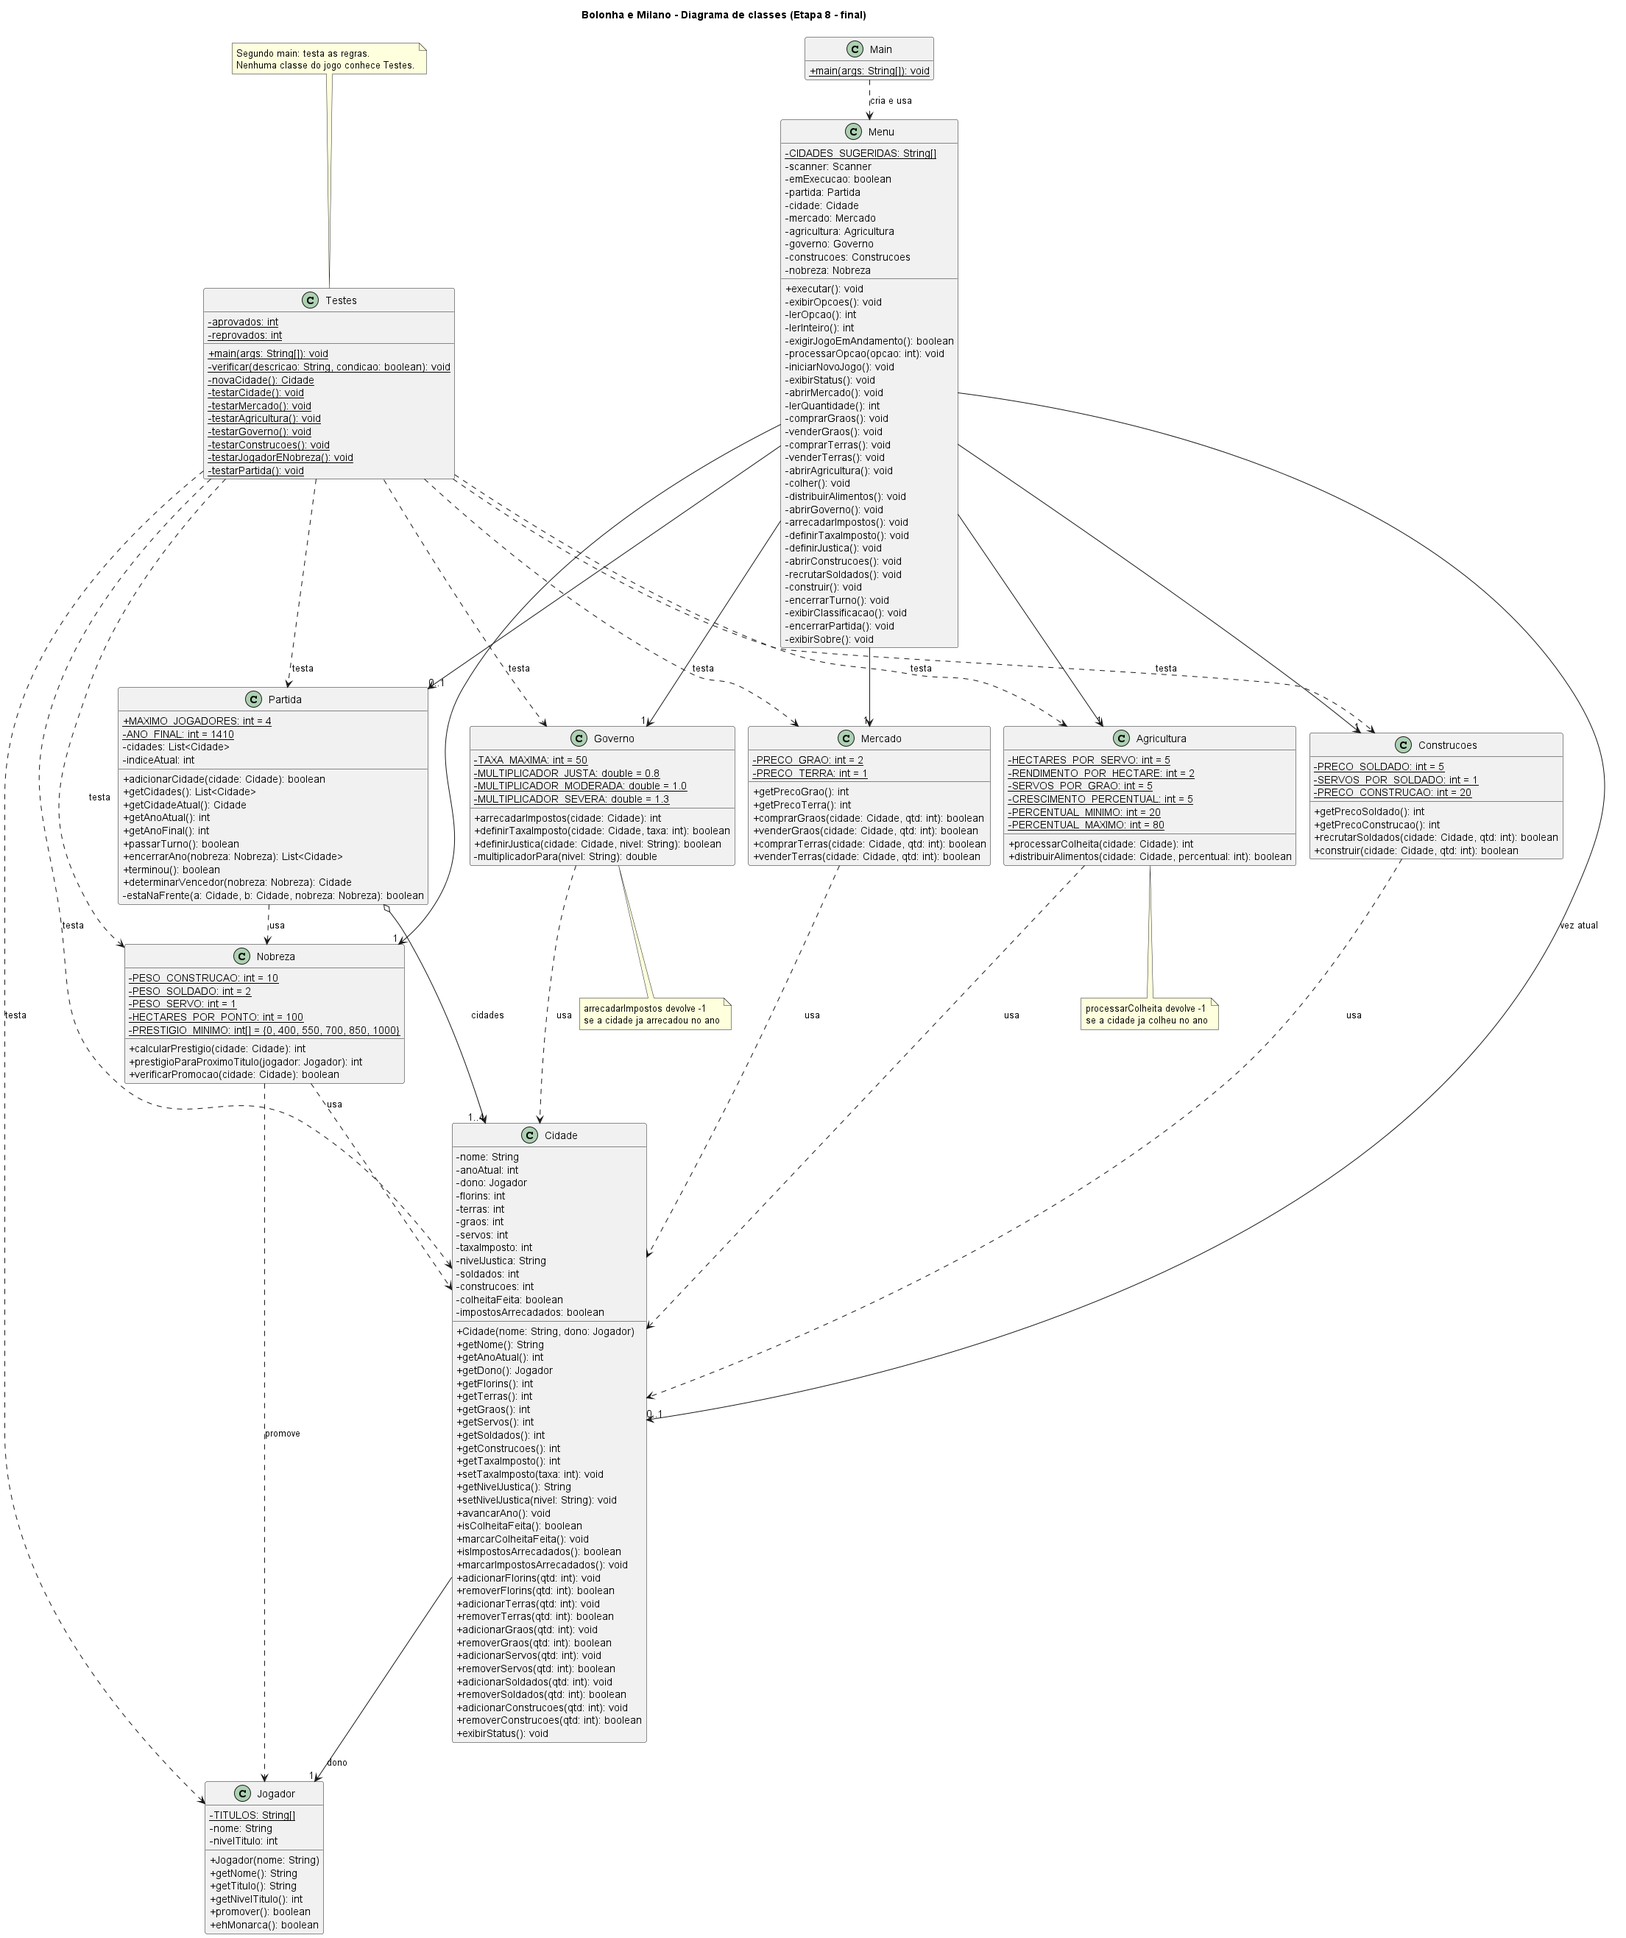
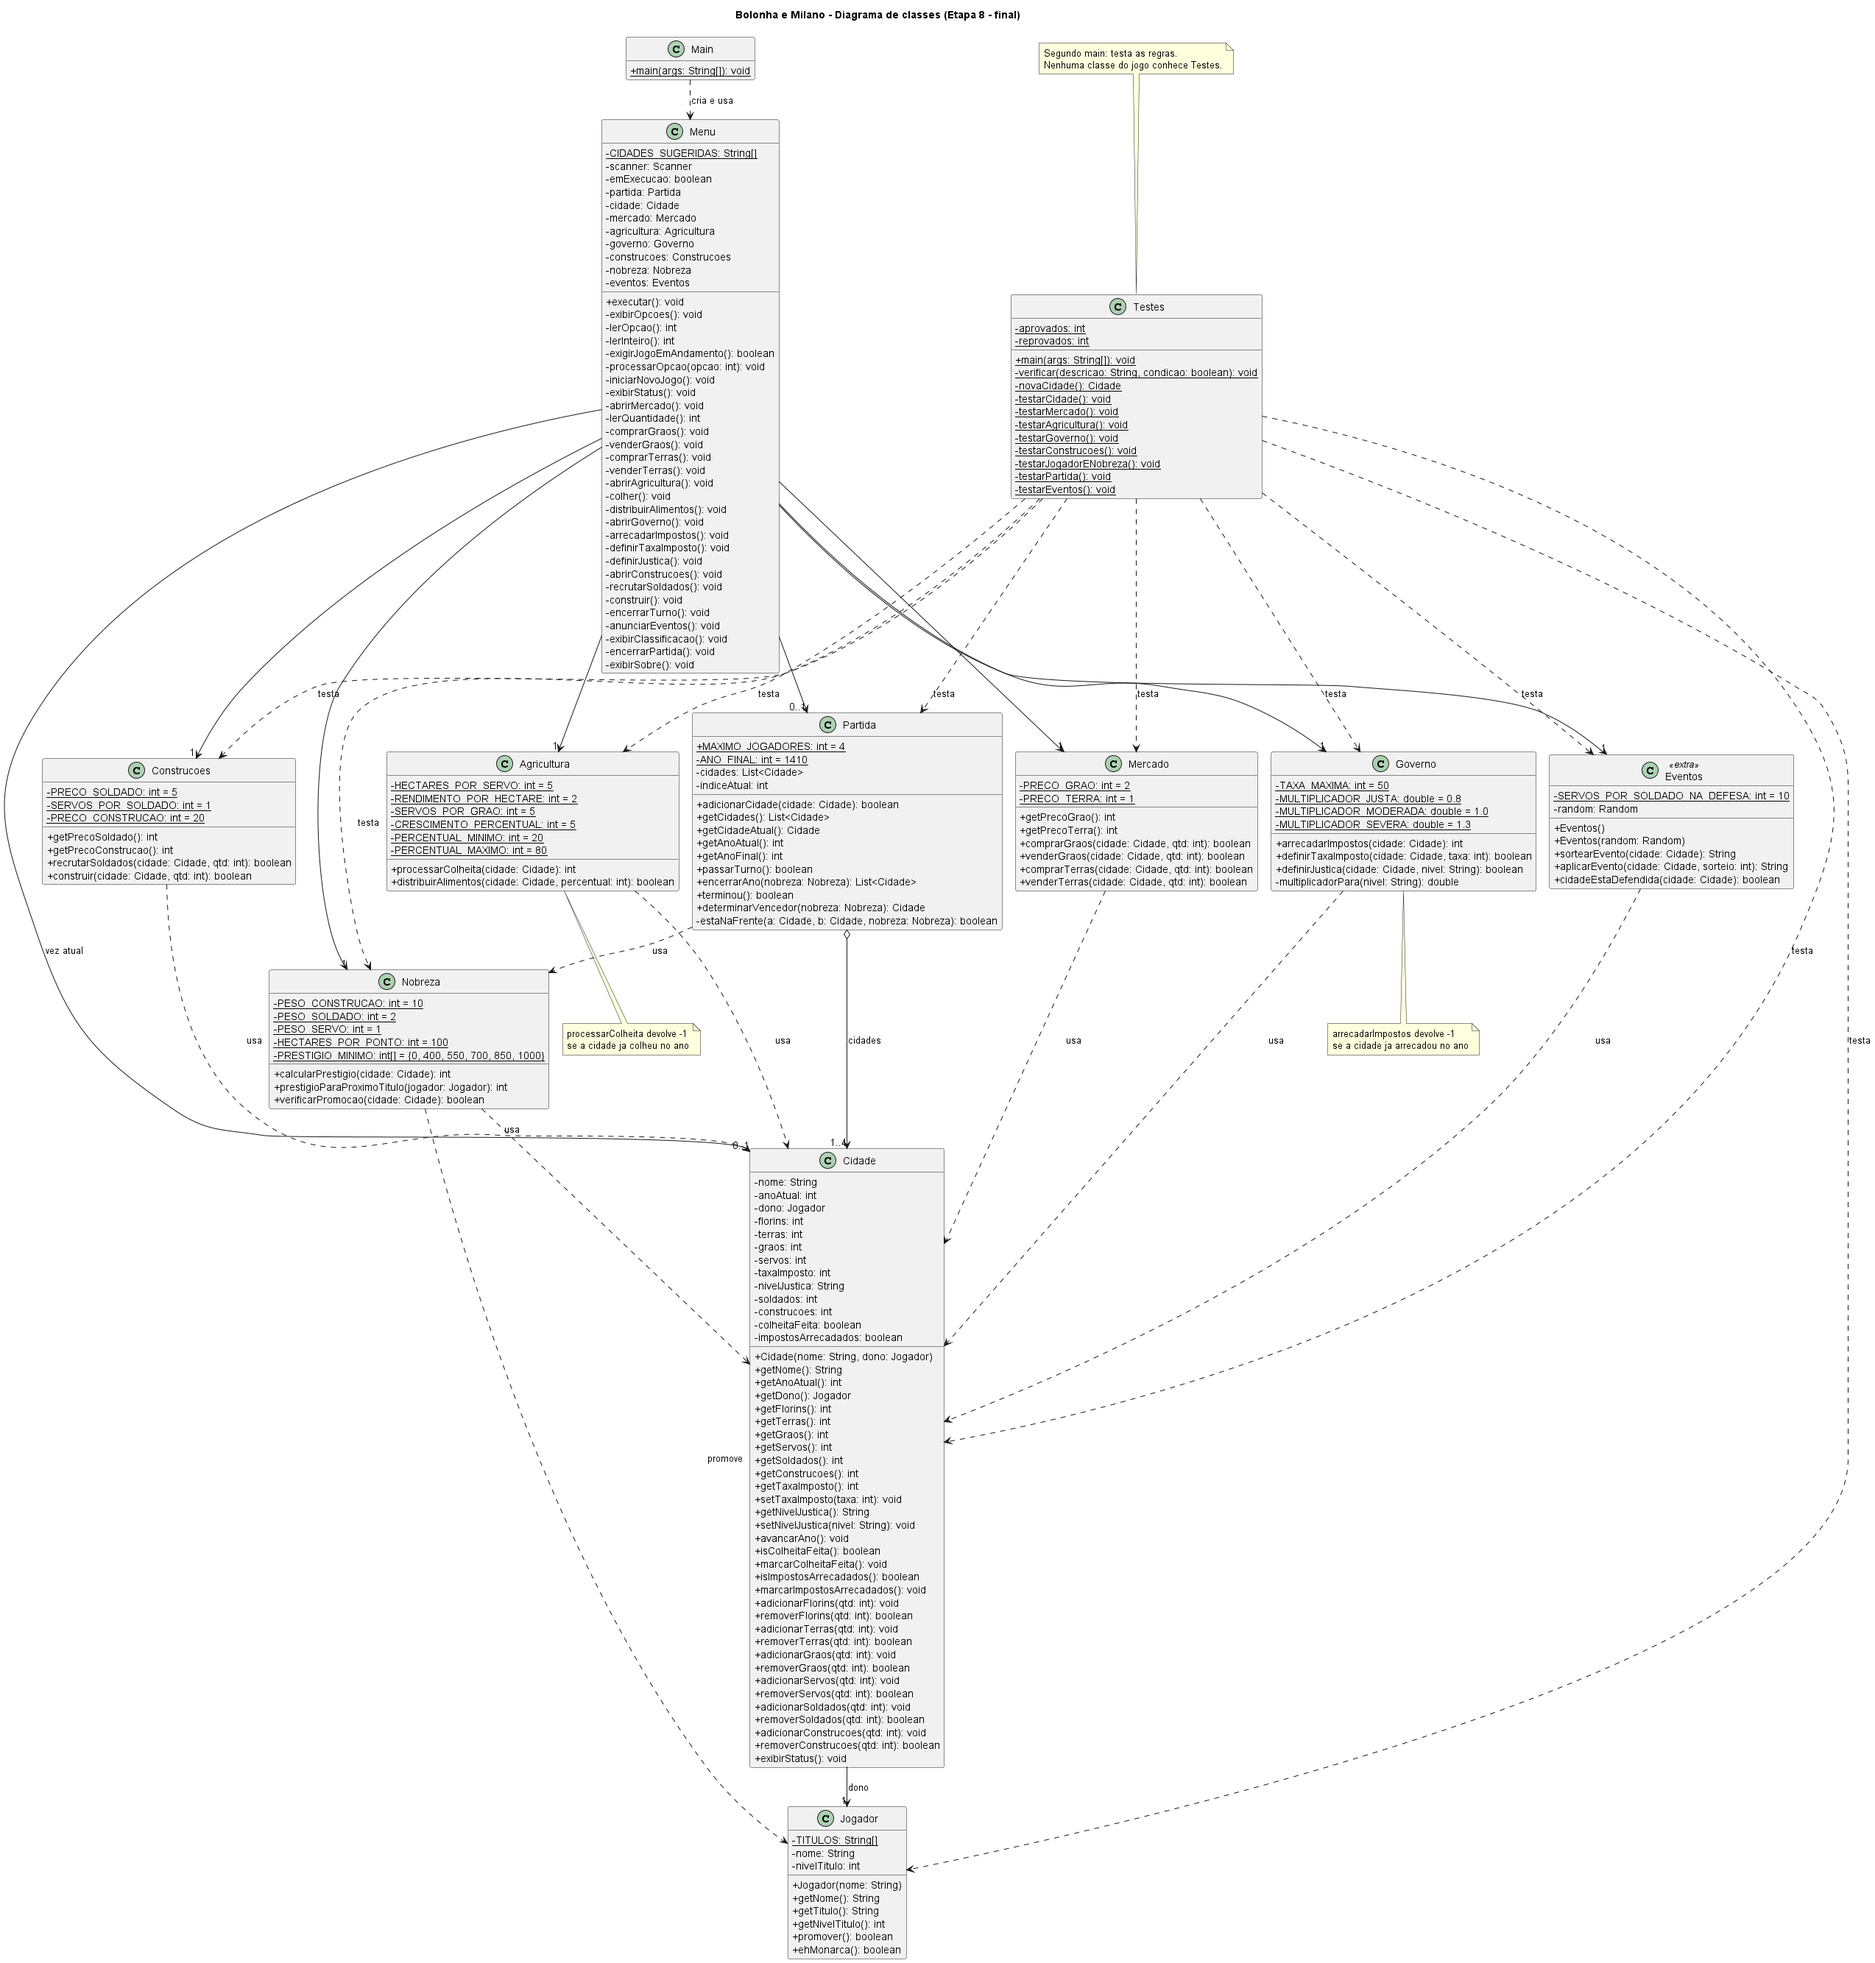
etapa 8: eventos aleatorios como diferencial

diff --git a/src/bolonhaemilano/Eventos.java b/src/bolonhaemilano/Eventos.java
@@ -1,0 +1,84 @@
+package bolonhaemilano;
+
+import java.util.Random;
+
+/**
+ * EXTRA (melhoria opcional): eventos aleatorios que acontecem em cada cidade
+ * no comeco de um novo ano. Da sentido aos soldados (defendem contra
+ * saqueadores) e ao estoque de graos (ratos).
+ *
+ * Sorteio de 0 a 99:
+ *   0-14  Ratos: perdem-se 20% dos graos
+ *  15-24  Peste: morrem 10% dos servos
+ *  25-39  Saqueadores: sem 1 soldado para cada 10 servos, levam 25% dos florins
+ *  40-54  Boa safra: +20% de graos
+ *  55-64  Imigrantes: +5% de servos
+ *  65-99  Ano tranquilo
+ *
+ * Nao guarda nenhuma Cidade (dependencia, como as outras classes de servico).
+ */
+public class Eventos {
+
+    private static final int SERVOS_POR_SOLDADO_NA_DEFESA = 10;
+
+    private Random random;
+
+    public Eventos() {
+        this(new Random());
+    }
+
+    public Eventos(Random random) {
+        this.random = random;
+    }
+
+    /**
+     * Sorteia e aplica um evento na cidade. Devolve a descricao do que aconteceu.
+     */
+    public String sortearEvento(Cidade cidade) {
+        return aplicarEvento(cidade, random.nextInt(100));
+    }
+
+    /**
+     * Aplica o evento correspondente ao numero sorteado (0 a 99).
+     * Publico para os testes poderem escolher o evento.
+     */
+    public String aplicarEvento(Cidade cidade, int sorteio) {
+        if (sorteio < 15) {
+            int perda = cidade.getGraos() * 20 / 100;
+            cidade.removerGraos(perda);
+            return "Ratos invadiram os celeiros: -" + perda + " graos.";
+        }
+        if (sorteio < 25) {
+            int mortos = cidade.getServos() * 10 / 100;
+            cidade.removerServos(mortos);
+            return "Uma peste atingiu a cidade: -" + mortos + " servos.";
+        }
+        if (sorteio < 40) {
+            if (cidadeEstaDefendida(cidade)) {
+                return "Saqueadores atacaram, mas os " + cidade.getSoldados() + " soldados os expulsaram!";
+            }
+            int roubo = cidade.getFlorins() * 25 / 100;
+            cidade.removerFlorins(roubo);
+            return "Saqueadores atacaram a cidade sem defesa: -" + roubo + " florins.";
+        }
+        if (sorteio < 55) {
+            int ganho = cidade.getGraos() * 20 / 100;
+            cidade.adicionarGraos(ganho);
+            return "Clima favoravel, os celeiros renderam mais: +" + ganho + " graos.";
+        }
+        if (sorteio < 65) {
+            int chegaram = cidade.getServos() * 5 / 100;
+            cidade.adicionarServos(chegaram);
+            return "Imigrantes chegaram atraidos pela cidade: +" + chegaram + " servos.";
+        }
+        return "Ano tranquilo, nada de especial aconteceu.";
+    }
+
+    /**
+     * A cidade esta defendida se tem pelo menos 1 soldado para cada 10 servos.
+     */
+    public boolean cidadeEstaDefendida(Cidade cidade) {
+        return cidade.getSoldados() * SERVOS_POR_SOLDADO_NA_DEFESA >= cidade.getServos()
+                && cidade.getSoldados() > 0;
+    }
+}

diff --git a/src/bolonhaemilano/Testes.java b/src/bolonhaemilano/Testes.java
@@ -1,6 +1,7 @@
 package bolonhaemilano;
 
 import java.util.List;
+import java.util.Random;
 
 /**
  * Testes automatizados das regras do jogo, sem JUnit: cada teste segue o
@@ -23,6 +24,7 @@ public class Testes {
         testarConstrucoes();
         testarJogadorENobreza();
         testarPartida();
+        testarEventos();
 
         System.out.println();
         System.out.println("Aprovados: " + aprovados + " | Reprovados: " + reprovados);
@@ -177,5 +179,38 @@ public class Testes {
         partida.adicionarCidade(new Cidade("Veneza", new Jogador("Dora")));
         boolean aceitouQuinta = partida.adicionarCidade(new Cidade("Roma", new Jogador("Eva")));
         verificar("quinta cidade e recusada (maximo 4)", !aceitouQuinta);
+    }
+
+    // EXTRA: eventos aleatorios. O numero do sorteio e escolhido pelo teste.
+    private static void testarEventos() {
+        System.out.println();
+        System.out.println("-- Eventos (extra) --");
+        Eventos eventos = new Eventos(new Random(42));
+
+        Cidade cidade = novaCidade();
+        eventos.aplicarEvento(cidade, 0);
+        verificar("ratos levam 20% dos graos (500 -> 400)", cidade.getGraos() == 400);
+
+        Cidade doente = novaCidade();
+        eventos.aplicarEvento(doente, 20);
+        verificar("peste mata 10% dos servos (200 -> 180)", doente.getServos() == 180);
+
+        Cidade semDefesa = novaCidade();
+        eventos.aplicarEvento(semDefesa, 30);
+        verificar("saqueadores levam 25% dos florins de cidade sem soldados", semDefesa.getFlorins() == 750);
+
+        Cidade defendida = novaCidade();
+        defendida.adicionarSoldados(20); // 20 soldados para 200 servos
+        eventos.aplicarEvento(defendida, 30);
+        verificar("com 1 soldado para cada 10 servos os saqueadores sao expulsos", defendida.getFlorins() == 1000);
+
+        Cidade tranquila = novaCidade();
+        eventos.aplicarEvento(tranquila, 99);
+        verificar("ano tranquilo nao altera nada",
+                tranquila.getGraos() == 500 && tranquila.getServos() == 200 && tranquila.getFlorins() == 1000);
+
+        Cidade sorteada = novaCidade();
+        String descricao = eventos.sortearEvento(sorteada);
+        verificar("sortearEvento sempre devolve uma descricao", descricao != null && !descricao.isEmpty());
     }
 }

diff --git a/src/bolonhaemilano/Menu.java b/src/bolonhaemilano/Menu.java
@@ -22,6 +22,7 @@ public class Menu {
     private Governo governo;
     private Construcoes construcoes;
     private Nobreza nobreza;
+    private Eventos eventos;
 
     public Menu() {
         scanner = new Scanner(System.in);
@@ -31,6 +32,7 @@ public class Menu {
         governo = new Governo();
         construcoes = new Construcoes();
         nobreza = new Nobreza();
+        eventos = new Eventos();
     }
 
     public void executar() {
@@ -478,11 +480,22 @@ public class Menu {
                 return;
             }
             System.out.println("Comeca o ano " + partida.getAnoAtual() + ".");
+            anunciarEventos();
         }
 
         cidade = partida.getCidadeAtual();
         System.out.println("Agora e a vez de " + cidade.getDono().getNome() + " (" + cidade.getDono().getTitulo()
                 + "), de " + cidade.getNome() + ".");
+    }
+
+    /**
+     * EXTRA: no comeco de cada ano, um evento aleatorio acontece em cada cidade.
+     */
+    private void anunciarEventos() {
+        System.out.println("------------ EVENTOS DO ANO ------------");
+        for (Cidade c : partida.getCidades()) {
+            System.out.println(c.getNome() + ": " + eventos.sortearEvento(c));
+        }
     }
 
     private void exibirClassificacao() {
@@ -532,5 +545,9 @@ public class Menu {
         System.out.println("Colher e arrecadar impostos: uma vez por ano por cidade.");
         System.out.println("Fim: quando alguem vira Rei/Rainha ou ao fim de 1410. Vence o titulo");
         System.out.println("mais alto (empate: maior prestigio).");
+        System.out.println();
+        System.out.println("Extra: no comeco de cada ano acontece um evento aleatorio em cada");
+        System.out.println("cidade (ratos, peste, saqueadores, boa safra ou imigrantes). Tenha");
+        System.out.println("1 soldado para cada 10 servos para expulsar os saqueadores.");
     }
 }

diff --git a/README.md b/README.md
@@ -25,7 +25,7 @@ A classe `Testes` compila junto com o jogo (mesmo `javac`) e tem seu próprio `m
 java -cp bin bolonhaemilano.Testes
 ```
 
-Saída esperada no final: `Aprovados: 37 | Reprovados: 0`. Se algum teste falhar, aparece
+Saída esperada no final: `Aprovados: 43 | Reprovados: 0` (37 testes das regras do enunciado + 6 do extra). Se algum teste falhar, aparece
 `[FALHA] <descrição>` e o programa termina com código de saída 1.
 
 ## Como jogar
@@ -63,6 +63,22 @@ Cada submenu (3 a 6) tem a opção `0` para voltar. Entradas inválidas nunca tr
 - **Fim de jogo:** alguém vira Rei/Rainha ou termina o ano de 1410. Vence o título mais alto;
   empate, maior prestígio.
 
+### Extra: eventos aleatórios
+
+Melhoria opcional (classe `Eventos`): no começo de cada novo ano, cada cidade sofre um evento sorteado:
+
+| Sorteio | Evento | Efeito |
+|---------|--------|--------|
+| 15% | Ratos | −20% dos grãos |
+| 10% | Peste | −10% dos servos |
+| 15% | Saqueadores | −25% dos florins, **a menos que** a cidade tenha 1 soldado para cada 10 servos |
+| 15% | Boa safra | +20% dos grãos |
+| 10% | Imigrantes | +5% dos servos |
+| 35% | Ano tranquilo | nada muda |
+
+Com isso os soldados passam a ter uma função defensiva, além do prestígio. Os eventos acontecem
+depois da classificação do ano, então o fechamento do ano continua igual ao do enunciado.
+
 ### Exemplo (Ana × Beto, ano 1400)
 
 ```
@@ -98,6 +114,7 @@ Milano | Beto (Cavaleiro) | prestigio 340 (proximo titulo com 400)
 | `Governo` | Impostos, taxa e nível de justiça |
 | `Construcoes` | Recrutar soldados e construir |
 | `Nobreza` | Cálculo do prestígio e promoção de títulos |
+| `Eventos` | **Extra:** eventos aleatórios no começo de cada ano |
 | `Testes` | Testes automatizados das regras (preparar → executar → verificar) |
 
 ## Histórico das etapas
@@ -113,4 +130,4 @@ Cada etapa tem seu(s) commit(s) `etapa N` e a tag `etapa-N`.
 7. **Rodadas, múltiplos jogadores e vitória** — classes `Partida` e `Nobreza`.
 8. **Integração, testes e entrega final** — classe `Testes`, refatoração do `Menu`
    (`lerInteiro()` e `exigirJogoEmAndamento()`, sem mudar o comportamento), diagramas finais
-   (incluindo o de sequência) e este README.
+   (incluindo o de sequência) e este README. Extra: eventos aleatórios (classe `Eventos`).
